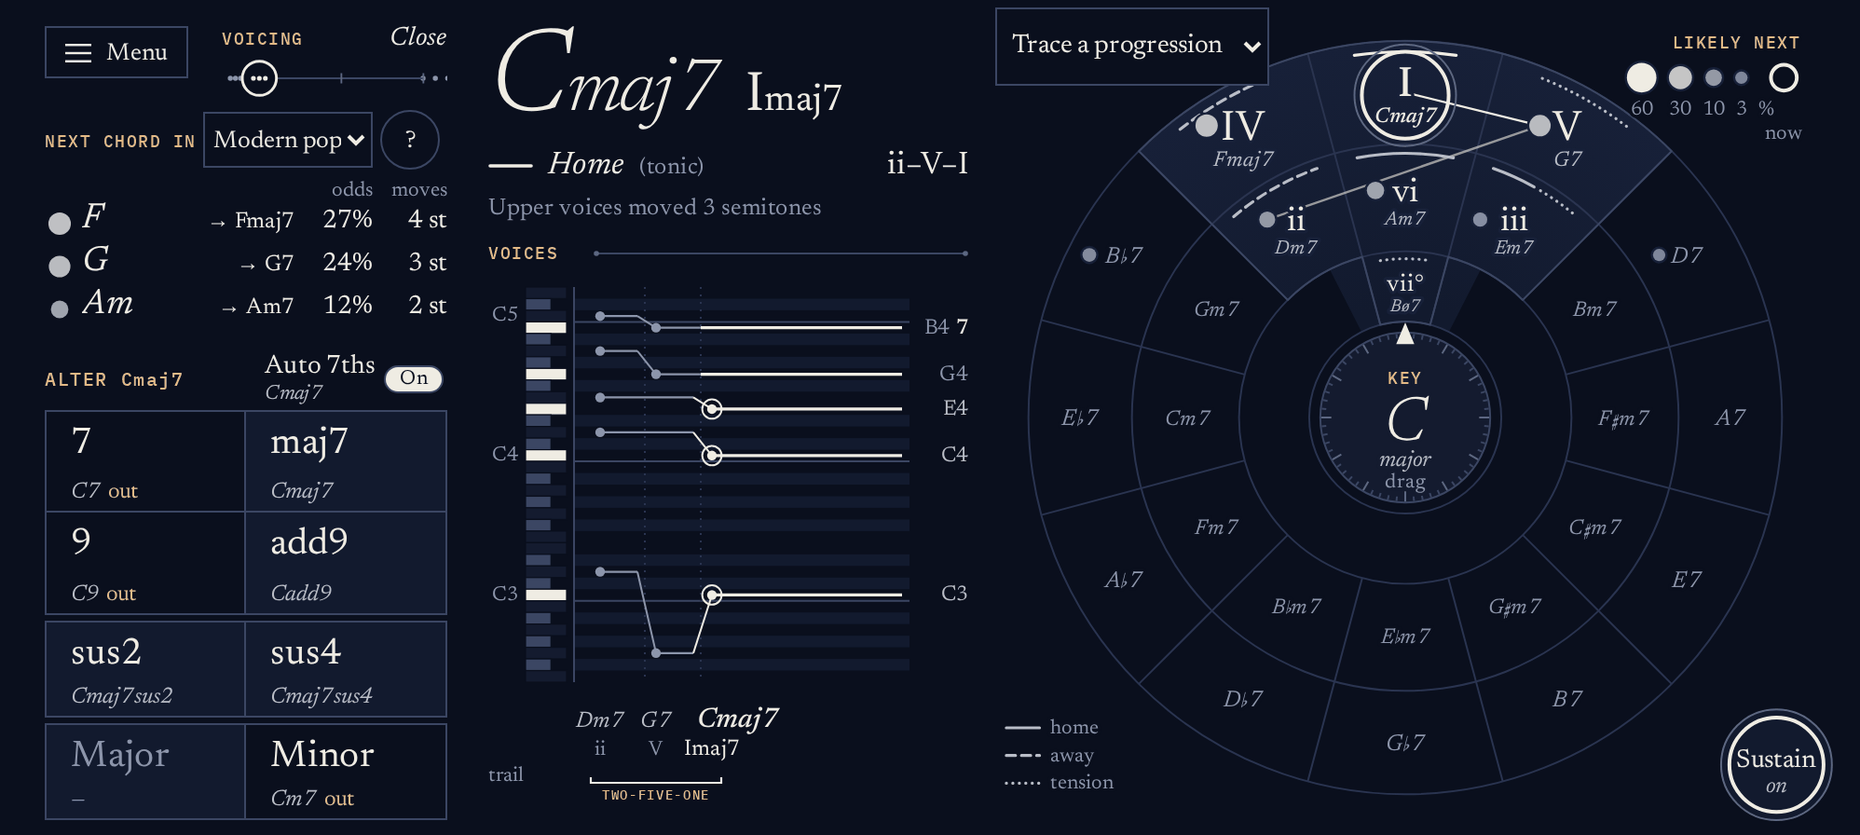
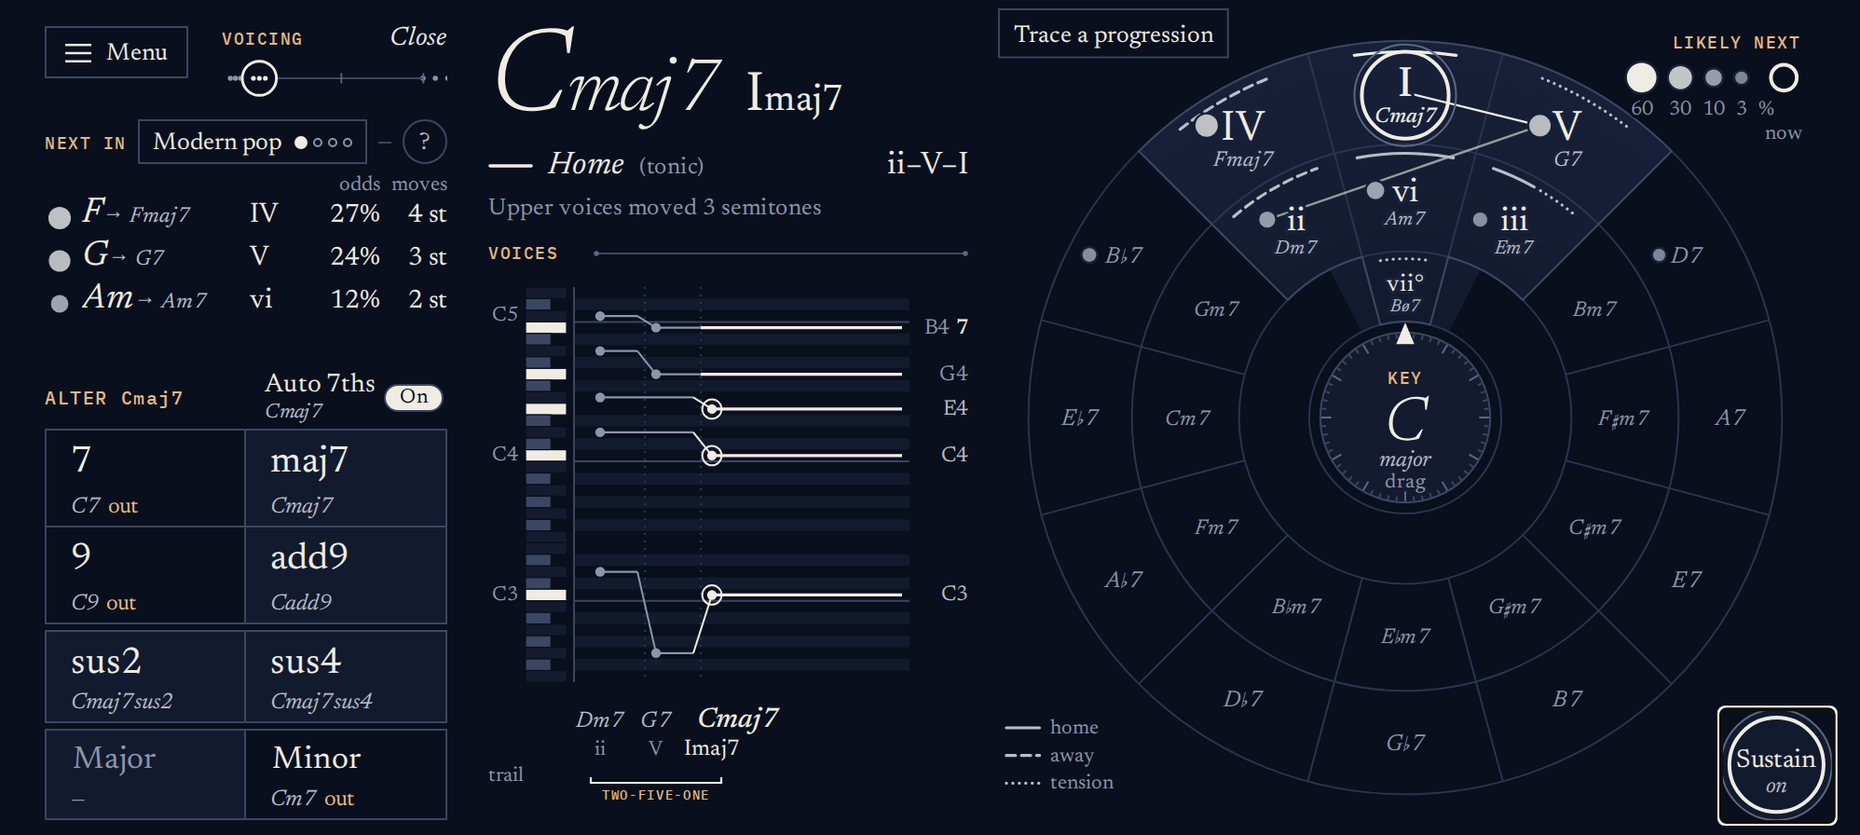
Draw the star guide and collection choice in the chart's own lines, and keep numerals in every row
The progression picker is a framed caption in the chart's corner that opens the app's own
list, and the collection is one framed word that steps to the next on a tap, in place of the
browser's dropdowns. The odds table shows the Roman numeral in every row, with what an altered
cell will play small beside the counted chord. The pads give back the height that overlapped
the table.

diff --git a/src/modules/controls/AtlasControls.svelte b/src/modules/controls/AtlasControls.svelte
@@ -11,7 +11,10 @@
   const starR = (p: number) => 2 + 6 * strength(p);
   const starFill = (p: number) => `rgb(${FAINT.map((f, i) => Math.round(f + (CHALK[i] - f) * strength(p))).join(",")})`;
   const word = (s: string) => s[0].toUpperCase() + s.slice(1);
-
+  // The collection is one framed word: a tap moves to the next, and Off comes last. The pips count the stops.
+  const choices = $derived<(string | null)[]>([...$view.presets.map((p) => p.id), null]);
+  const presetName = $derived($view.presets.find((p) => p.id === $view.preset)?.name ?? "Off");
+  const nextChoice = () => send({ type: "presetChanged", preset: choices[(choices.indexOf($view.preset) + 1) % choices.length] });
 
   // Voicing slider: three dots packed at Close, spread at Wide; a touch picks the nearest stop.
   const TRACK = { from: 22, to: 118, y: 14 };
@@ -74,16 +77,17 @@
   </div>
 
   <div class="section">
-    <label class="cap" for="next-collection">NEXT CHORD IN</label>
-    <select id="next-collection" value={$view.preset ?? ""} onchange={(e) => send({ type: "presetChanged", preset: e.currentTarget.value || null })}>
-      {#each $view.presets as p (p.id)}<option value={p.id}>{p.name}</option>{/each}
-      <option value="">Off</option>
-    </select>
+    <span class="cap">NEXT IN</span>
+    <button class="collection" data-preset={$view.preset ?? "off"} aria-label={`Next chords in: ${presetName}. Tap to change.`} onclick={nextChoice}>
+      <span class="collection-name">{presetName}</span>
+      <span class="pips" aria-hidden="true">{#each choices as c (c)}<i class:now={c === $view.preset}></i>{/each}</span>
+    </button>
+    <span class="hair"></span>
     <button class="info" popovertarget="odds-help" aria-label="About next-chord odds">?</button>
     <div popover id="odds-help">
       <strong>Where the stars come from</strong>
       <p>Each percentage counts the next different chord in this collection. Repeated chords collapse, extensions count with their triad, and unclassified changes break the sequence.</p>
-      <p>An arrow shows what the cell plays after alterations. Moves add up the semitones traveled by the four upper voices. A tilde (~) marks a theory-based estimate.</p>
+      <p>The small name after an arrow is what that chord will play with the pads as they are. Moves add up the semitones traveled by the four upper voices. A tilde (~) marks a theory-based estimate.</p>
       <button popovertarget="odds-help" popovertargetaction="hide">Back to playing</button>
     </div>
   </div>
@@ -92,15 +96,15 @@
     {#each $view.next as n, i (n.name + i)}
       <div class="row" data-rank={i + 1}>
         <svg class="star" viewBox="-8 -8 16 16" aria-hidden="true"><circle r={starR(n.p)} style={`fill: ${starFill(n.p)}`} /></svg>
-        <span class="name">{n.counted}</span>
-        <span class="num" class:altered={n.name !== n.counted}>{n.name !== n.counted ? "→ " + n.name : n.numeral}</span>
+        <span class="name">{n.counted}{#if n.name !== n.counted}<span class="plays"> <span class="arrow">→</span> {n.name}</span>{/if}</span>
+        <span class="num">{n.numeral}</span>
         <span class="val">{n.measured ? "" : "~"}{pct(n.p)}</span>
         <span class="val">{n.cost} st</span>
       </div>
     {/each}
     {#if estimated}<div class="foot">~ estimated, not measured</div>{/if}
   {:else}
-    <div class="empty">{$view.preset ? "Tap a chord on the circle to see what follows." : "Choose a collection above to show stars."}</div>
+    <div class="empty">{$view.preset ? "Tap a chord on the circle to see what follows." : "Next chords are off. Tap Off above to show stars."}</div>
   {/if}
 </div>
 
@@ -126,15 +130,27 @@
   .tick { stroke: var(--faint); stroke-width: 1; }
   .thumb { fill: var(--ground); stroke: var(--ink); stroke-width: 1.6; }
   .thumb-dot { fill: var(--ink); }
-  .section { display: flex; align-items: center; gap: 8px; margin-top: 14px; }
-  select, .info, [popover] button { font: 13px var(--font-text); background: var(--ground); color: var(--ink); border: 1px solid var(--rule-2); }
-  .info { border-radius: 50%; width: 32px; height: 32px; padding: 0; }
-  .section { gap: 4px; margin-top: 3px; }
-  select { height: 30px; }
+  .section { display: flex; align-items: center; }
+  .section { gap: 6px; margin-top: 8px; height: 24px; }
+  .hair { flex: 1; height: 1px; background: var(--rule-2); }
+  .collection {
+    all: unset; box-sizing: border-box; display: flex; align-items: center; gap: 7px; height: 24px; padding: 0 7px;
+    border: 1px solid var(--rule-2); font: 400 13px var(--font-text); color: var(--ink); white-space: nowrap;
+  }
+  /* One pip per stop: the chosen one is solid and larger, the rest are hollow. */
+  .pips { display: flex; align-items: center; gap: 3px; }
+  .pips i { box-sizing: border-box; width: 5px; height: 5px; border-radius: 50%; border: 1px solid var(--ink-3); }
+  .pips i.now { width: 7px; height: 7px; background: var(--ink); border-color: var(--ink); }
+  .info, [popover] button { font: 13px var(--font-text); background: var(--ground); color: var(--ink); border: 1px solid var(--rule-2); }
+  .info { flex: none; border-radius: 50%; width: 24px; height: 24px; padding: 0; color: var(--ink-2); }
   [popover] { max-width: min(360px, 80vw); padding: 16px; background: var(--ground); color: var(--ink); border: 1px solid var(--ink-3); font: 16px var(--font-text); }
   [popover]::backdrop { background: #080d18aa; }
-  .num.altered { font-size: 12px; }
-  .head-row, .row { display: grid; grid-template-columns: 16px minmax(30px, 1fr) auto 38px 36px; align-items: baseline; column-gap: 4px; }
+  [popover] button { height: 32px; padding: 0 12px; }
+  button:focus-visible { outline: 2px solid var(--ink); outline-offset: 1px; }
+  /* What the cell will play with the pads as they are, small beside the chord the odds were counted for. */
+  .plays { font-size: 11.5px; color: var(--ink-2); }
+  .arrow { position: relative; top: -2px; font-style: normal; }
+  .head-row, .row { display: grid; grid-template-columns: 16px minmax(0, 1fr) 32px 34px 32px; align-items: baseline; column-gap: 4px; }
   .head-row { margin-top: 6px; }
   .h { font: 400 11px var(--font-text); color: var(--ink-3); text-align: right; white-space: nowrap; }
   .row { height: 23px; }

diff --git a/src/modules/circle/AtlasCircle.svelte b/src/modules/circle/AtlasCircle.svelte
@@ -167,16 +167,32 @@
     keyHeld = false;
     send({ type: "touch", phase: "up", pointer: keyboardPointer, ref: null, r: 0, theta: 0, time: e.timeStamp });
   }
+  // The progression list opens from the chart's open corner, so it's found without the Menu.
+  let picking = $state(false);
+  let picker = $state<HTMLDivElement>();
+  let opener = $state<SVGGElement>();
+  function choose(shape: string) {
+    picking = false;
+    send({ type: "shapeChosen", shape });
+  }
+  function outside(e: PointerEvent) {
+    const t = e.target as Node;
+    if (picking && !picker?.contains(t) && !opener?.contains(t)) picking = false;
+  }
   const isHome = (c: CircleChord) => c.ref.ring === "dim";
 </script>
 
-<svelte:window onblur={releaseKey} onpointermove={report("move")} onpointerup={report("up")} onpointercancel={report("cancel")} />
+<svelte:window onblur={releaseKey} onpointerdown={outside} onkeydown={(e) => e.key === "Escape" && (picking = false)} onpointermove={report("move")} onpointerup={report("up")} onpointercancel={report("cancel")} />
 
-{#if !loaded}
-  <select class="guide" aria-label="Trace a progression" value="" onchange={(e) => send({ type: "shapeChosen", shape: e.currentTarget.value })}>
-    <option value="" disabled>Trace a progression</option>
-    {#each $view.shapes as shape (shape.id)}<option value={shape.id}>{shape.label}</option>{/each}
-  </select>
+{#if picking && !loaded}
+  <!-- The progressions to trace, in the chart's own lines. A tap outside it, or Escape, puts it away. -->
+  <div class="picker" bind:this={picker} role="dialog" aria-label="Trace a progression">
+    <div class="picker-head"><span class="picker-cap">TRACE A PROGRESSION</span>
+      <button class="picker-close" aria-label="Close" onclick={() => (picking = false)}>×</button></div>
+    {#each $view.shapes as shape (shape.id)}
+      <button class="picker-row" data-shape={shape.id} onclick={() => choose(shape.id)}>{shape.name}</button>
+    {/each}
+  </div>
 {/if}
 <svg bind:this={svg} viewBox="-222 -222 444 444" role="group" aria-label="Circle of fifths" onpointerdown={down}>
   <defs>
@@ -333,6 +349,16 @@
     </g>
   {/if}
 
+  {#if !loaded}
+    <g class="trace" bind:this={opener} role="button" tabindex="0" aria-label="Trace a progression" aria-expanded={picking}
+      onclick={() => (picking = !picking)}
+      onmousedown={(e) => e.preventDefault()}
+      onkeydown={(e) => (e.key === "Enter" || e.key === " ") && (e.preventDefault(), (picking = !picking))}>
+      <rect x="-220" y="-221" width="124" height="26" />
+      <text class="trace-word" x="-212" y="-203.5">Trace a progression</text>
+    </g>
+  {/if}
+
   <!-- The legends sit in the corners, beside what they explain. -->
   {#if $view.next.length}
     <g class="legend">
@@ -371,7 +397,22 @@
 <style>
   svg { display: block; width: 100%; height: 100%; overflow: visible; touch-action: none; }
   .cell { fill: transparent; stroke: none; pointer-events: all; }
-  .guide { position: absolute; z-index: 1; top: 0; left: 0; width: 147px; height: 42px; padding-left: 4px; font: 14px var(--font-serif); color: var(--ink); background: var(--ground); border: 1px solid var(--rule-2); }
+  .trace { cursor: pointer; }
+  .trace:focus:not(:focus-visible) { outline: none; }
+  .trace rect { fill: transparent; stroke: var(--rule-2); stroke-width: 1; pointer-events: all; }
+  .trace-word { font: 400 13px var(--font-text); fill: var(--ink); stroke: var(--ground); text-anchor: start; }
+  .picker {
+    position: absolute; z-index: 2; top: 0; left: 0; width: 186px; box-sizing: border-box; padding: 0 10px 4px;
+    background: var(--ground); border: 1px solid var(--rule-2); color: var(--ink); font-family: var(--font-serif);
+  }
+  .picker-head { display: flex; align-items: center; justify-content: space-between; height: 30px; }
+  .picker-cap { font: 500 9px var(--font-caps); letter-spacing: 0.14em; color: var(--lamp); white-space: nowrap; }
+  .picker-close { all: unset; width: 30px; height: 30px; margin-right: -10px; text-align: center; font: 400 18px var(--font-text); color: var(--ink-2); }
+  .picker-row {
+    all: unset; display: block; box-sizing: border-box; width: 100%; height: 31px; line-height: 30px;
+    border-top: 1px solid var(--rule); font: italic 400 15px/30px var(--font-serif); color: var(--ink); white-space: nowrap;
+  }
+  .picker button:focus-visible { outline: 2px solid var(--ink); outline-offset: -2px; }
   .cell.first { stroke: var(--ink-2); stroke-width: 2.5; }
   .cell:focus-visible { outline: none; stroke: var(--ink); stroke-width: 3; }
   .cell.lit { fill: url(#atlas-mist); }

diff --git a/src/modules/alterations/AtlasPads.svelte b/src/modules/alterations/AtlasPads.svelte
@@ -1,4 +1,9 @@
 <script lang="ts">
+  // The pads in the star atlas: four pairs, each row two versions of one idea (7 and maj7, 9 and add9,
+  // sus2 and sus4, Major and Minor). Shaded ground keeps you in the key; unshaded ground plus the word
+  // "out" leaves it (line style is kept for function alone). A ring means latched: it stays for every
+  // chord until tapped off. A color the loaded shape gave this one step says "this chord" instead.
+  // A pad under the finger fills solid. Auto 7ths is a mode, not a pad, so it sits in the heading.
   import type { Alteration, ModuleProps } from "../../core/contract";
 
   let { view, send }: ModuleProps<"alterations"> = $props();
@@ -43,7 +48,7 @@
         aria-label={label} aria-describedby={`pad-result-${o.id} pad-scope-${o.id}`}
         onpointerdown={(e) => down(e, o.id)} onclick={(e) => activate(e, o.id)}
         onkeydown={(e) => { if (e.repeat && (e.key === "Enter" || e.key === " ")) e.preventDefault(); }}>
-        <span class="label"><span class="ring">{label}</span></span>
+        <span class="label" class:word={!!LABEL[o.id]}><span class="ring">{label}</span></span>
         <span class="scope" id={`pad-scope-${o.id}`}>{temporary ? "this chord" : o.latched && !o.held ? "latched" : ""}</span>
         <span class="chord" id={`pad-result-${o.id}`}>{o.available ? o.chord : "—"}{#if o.inKey === false}<span class="out">out</span>{/if}</span>
       </button>
@@ -67,9 +72,12 @@
   .pad:nth-child(3), .pad:nth-child(4) { border-top: 0; }
   .pad:nth-child(n+5) { margin-top: 3px; }
   .pad.shaded { background: var(--chart-lo); }
+  /* Pinned in place, whatever appears beneath. */
   .label, .chord { position: absolute; left: 8px; right: 2px; white-space: nowrap; }
   .label { top: 5px; line-height: 1; }
   .ring { display: inline-block; padding: 1px 4px 2px; border: 1px solid transparent; border-radius: 12px; font-size: 20px; }
+  /* Major and Minor are words: a little smaller, so the ring clears the note at the pad's corner. */
+  .word .ring { font-size: 17px; padding: 2px 5px 3px; }
   .chord { bottom: 4px; left: 13px; font: italic 12px var(--font-text); color: var(--ink-2); }
   .out { margin-left: .35em; font-style: normal; color: var(--lamp); }
   .scope { position: absolute; top: 3px; right: 4px; font: 10px var(--font-text); color: var(--ink); }

diff --git a/src/core/contract.ts b/src/core/contract.ts
@@ -80,7 +80,7 @@ export interface TendView {
      * shape's own numeral, how many steps the trail has just played in order (`played`), and which key
      * it's drawn in. Null when none is loaded.
      */
-    shapes: { id: string; label: string }[];
+    shapes: { id: string; label: string; name: string }[];
     loaded: {
       numerals: string;
       name: string;
@@ -148,7 +148,7 @@ export interface TendView {
     /** The library of progressions to draw on the circle, and the one loaded. */
     /** MIDI out: `device` is the word for its button, a device's name or what's in the way. */
     midi: { on: boolean; device: string; channel: number; ownSound: boolean };
-    shapes: { id: string; label: string }[];
+    shapes: { id: string; label: string; name: string }[];
     shape: string | null;
     /** Shapes drawn with their usual 7ths and add9s, or plain. */
     colored: boolean;

diff --git a/src/core/core.ts b/src/core/core.ts
@@ -130,7 +130,7 @@ function loadedOf(s: State): TendView["circle"]["loaded"] {
 /** The Menu's order, as they'd be learned. */
 const SHAPE_LIST = ["two-five-one", "circle", "axis", "andalusian", "doo-wop", "canon", "blues", "ragtime", "rock"].map((id) => {
   const d = SHAPES.find((x) => x.id === id)!;
-  return { id: d.id, label: d.label };
+  return { id: d.id, label: d.label, name: d.name[0].toUpperCase() + d.name.slice(1) };
 });
 
 /** The shape the chord now completes, if the trail ends in one. */

diff --git a/src/skins/skins.ts b/src/skins/skins.ts
@@ -64,7 +64,7 @@ export const atlas: Skin = {
   slots: {
     practice: [24, 8, 216, 0],
     controls: [24, 14, 216, 180],
-    alterations: [24, 186, 216, 254],
+    alterations: [24, 196, 216, 244],
     readout: [262, 14, 258, 110],
     ribbon: [262, 128, 258, 300],
     circle: [534, 4, 440, 440],

diff --git a/README.md b/README.md
@@ -11,10 +11,10 @@ The name comes from Ptolemy's star catalog. The same Ptolemy also wrote the *Har
 ## What it does
 
 - **The circle is the keyboard.** Twelve columns of major, minor and diminished chords. Touch one to play it. The key's seven chords form a lit region of sky, each marked with its Roman numeral and its function: home, away or tension.
-- **The chords likely to come next are stars.** Hold a chord and the chords that usually follow it light up, brighter for more likely, with the odds in a table. Choose the collection beside **Next chord in**. An arrow beside a counted chord shows what its cell will play with your alterations. The odds are counted from real music, and you can switch between three collections: modern pop, classic pop and jazz.
+- **The chords likely to come next are stars.** Hold a chord and the chords that usually follow it light up, brighter for more likely, with the odds in a table. Tap the collection's name above the table to change it. An arrow beside a counted chord shows what its cell will play with your alterations. The odds are counted from real music, and you can switch between three collections: modern pop, classic pop and jazz.
 - **You can see the voice leading.** A note shared by two chords keeps sounding instead of being played again. The other notes slide or strike, whichever you choose, and the voices panel draws every line as it moves.
 - **Pads color the chord.** 7, maj7, 9, add9, sus2, sus4, and Major or Minor to switch the quality. The four pairs sit under the left thumb. Auto 7ths gives each chord its own seventh in the key. A latched pad shows a ring until you tap it off, and each pad shows what it would turn the current chord into, and whether that chord leaves the key.
-- **Progressions to follow.** Choose **Trace a progression** on the chart to load one of nine classic progressions, from ii–V–I to Pachelbel's Canon, and it's drawn as a constellation to trace, with the next move lit. Each step plays with its usual color, so ii–V–I comes out as Dm7, G7, Cmaj7.
+- **Progressions to follow.** Tap **Trace a progression** on the chart to load one of nine classic progressions, from ii–V–I to Pachelbel's Canon, and it's drawn as a constellation to trace, with the next move lit. Each step plays with its usual color, so ii–V–I comes out as Dm7, G7, Cmaj7.
 - **MIDI out.** Plug a synth into the phone's USB-C port and play it from the circle. A shared note holds on the synth too, and the app can go silent while it plays.
 - **Keyboard.** Tab to a chord, then hold Space or Enter to play it.
 - **Gestures.** Slide from a held chord onto one of its stars to play it. Swipe in or out for the relative minor or major. Long-press to reveal the secondary dominant that leads to the chord. Drag from the hub onto any chord to make it the key.

diff --git a/DESIGN.md b/DESIGN.md
@@ -167,7 +167,7 @@ The sounding chord at display size, its numeral beside it, then the function's o
 A vertical keyboard, one row per semitone, accidental rows shaded across the roll, C rows ruled and labeled, the keys of sounding notes lit. Each voice is a line: a held tone continues without a new point, a change slants in and starts a point. All points the same size; the sounding chord's points wear rings, and its lines fade toward the right with the release. The window of pitches widens and narrows without jitter, never under 28 rows. At the right, the sounding notes are named; a note a pad added carries its figure after the name in chalk, 7 or 9, as the leading tone carries LT. Two notes a semitone apart spread their names evenly so they never overlap. Beneath: the trail's names and numerals; crowded, older chords keep only their numerals. Under them, a ruled line with a tick per chord, or, once the trail holds a named progression, brackets in its place, as analysis marks on a jazz chart: each spans its chords with a short name in mono caps beneath (AXIS, CIRCLE), the one the chord now completes in chalk with its name in lamp, older ones in fog. Two that share a chord meet under it.
 
 ### Left column
-A small framed Menu control; the voicing slider (three dots packed at Close, spread at Wide, the chosen stop ringed); the next-chord table, each row led by the same star as on the circle, name, numeral, odds (with `~` for estimates) and the semitones the voices would move.
+A small framed Menu control; the voicing slider (three dots packed at Close, spread at Wide, the chosen stop ringed); the collection as one framed word with a pip per stop (a tap moves to the next); the next-chord table, each row led by the same star as on the circle, the counted chord's name (with what the cell will play, small after an arrow, when a pad changes it), numeral, odds (with `~` for estimates) and the semitones the voices would move.
 
 ### Pads
 Four fixed pairs under the left thumb: 7 and maj7, 9 and add9, sus2 and sus4, Major and Minor. The extension rows share a frame. Small gaps separate suspensions and quality. Auto 7ths sits beside the Alter heading and shows the key's seventh for the sounding cell when enabled. Shading and the word “out” distinguish key membership. A latched pad wears a ring; a step-specific alteration says “this chord”. The held pad fills chalk. Each pad keeps its position as chord previews change. Sustain sits under the right thumb beside the circle.

diff --git a/docs/HOW-IT-WORKS.md b/docs/HOW-IT-WORKS.md
@@ -55,7 +55,7 @@ The pads add a 7, maj7, 9 or add9, suspend the chord (sus2, sus4), or switch its
 `shapes.ts` holds the named progressions: ii–V–I, the circle progression (vi–ii–V–I), the axis progression (I–V–vi–IV), the Andalusian cadence (i–♭VII–♭VI–V), the doo-wop changes (I–vi–IV–V), Pachelbel's Canon (I–V–vi–iii–IV–I–IV–V), the twelve-bar blues (I–IV–I–V–IV), the ragtime progression (III–VI–II–V–I) and the rock vamp (I–♭VII–IV).
 
 - **Recognized.** A progression is matched by root motion and chord quality, measured from its own tonic, so it's found in any key. When you play one, the readout names it, and if it isn't in the home key, says where it is ("in D minor").
-- **Loaded.** Choose **Trace a progression** on the chart or pick one in the Menu and it's drawn on the circle as a constellation still to trace, with the next move lit. Steps you play leave the figure and become the trail.
+- **Loaded.** Tap **Trace a progression** on the chart or pick one in the Menu and it's drawn on the circle as a constellation still to trace, with the next move lit. Steps you play leave the figure and become the trail.
 - **With its 7ths.** Each progression carries the color it's usually played with: ii7–V7–Imaj7, vi7–ii7–V7–Imaj7, Iadd9–V–vi7–IVmaj7, I7–IV7–I7–V7–IV7, E7–A7–D7–G7–C in C, and V7 to end the Andalusian and the doo-wop changes. Pressing the next step plays it that way without touching a pad. A pad you've tapped or are holding wins. A Menu setting turns this off.
 
 ## Secondary dominants

diff --git a/docs/DECISIONS.md b/docs/DECISIONS.md
@@ -80,3 +80,9 @@ The C-to-Am regression is covered with Major latched. The browser smoke test tra
 Four fixed rows place comparable alterations beside each other. Auto 7ths has its own switch and chord preview. A ring identifies a latch the player can release on any cell. A step-specific alteration carries a “this chord” label. Pointer-down still acts immediately; keyboard and assistive clicks can toggle the same pads.
 
 The browser smoke test clears a Major latch on sustained C, compares 9 and add9, distinguishes a guided seventh from a latch, and checks the automatic seventh on different degrees.
+
+## D13: The star guide and collection choice in the chart's own lines, and numerals in every row
+
+- **Decided:** the progression picker is a framed caption in the chart's open corner that opens the app's own list of the nine. The collection is one framed word above the odds; a tap moves to the next, Off last, with a pip per stop. The odds table always shows the Roman numeral; what an altered cell will play is a small name after an arrow, beside the counted chord. The pads give back the height D12 took, so they no longer overlap the table.
+- **Why:** the browser's own dropdowns broke the chart's look. With a pad or Auto 7ths on, the arrow had replaced the numeral in every row, and the numerals are what the table teaches.
+- **Checked:** `star-guide.cjs` traces through the new picker and steps the collection to jazz; `layout.cjs` and `drive_app.cjs` pass; a grayscale screenshot with Major latched and Auto 7ths on.
